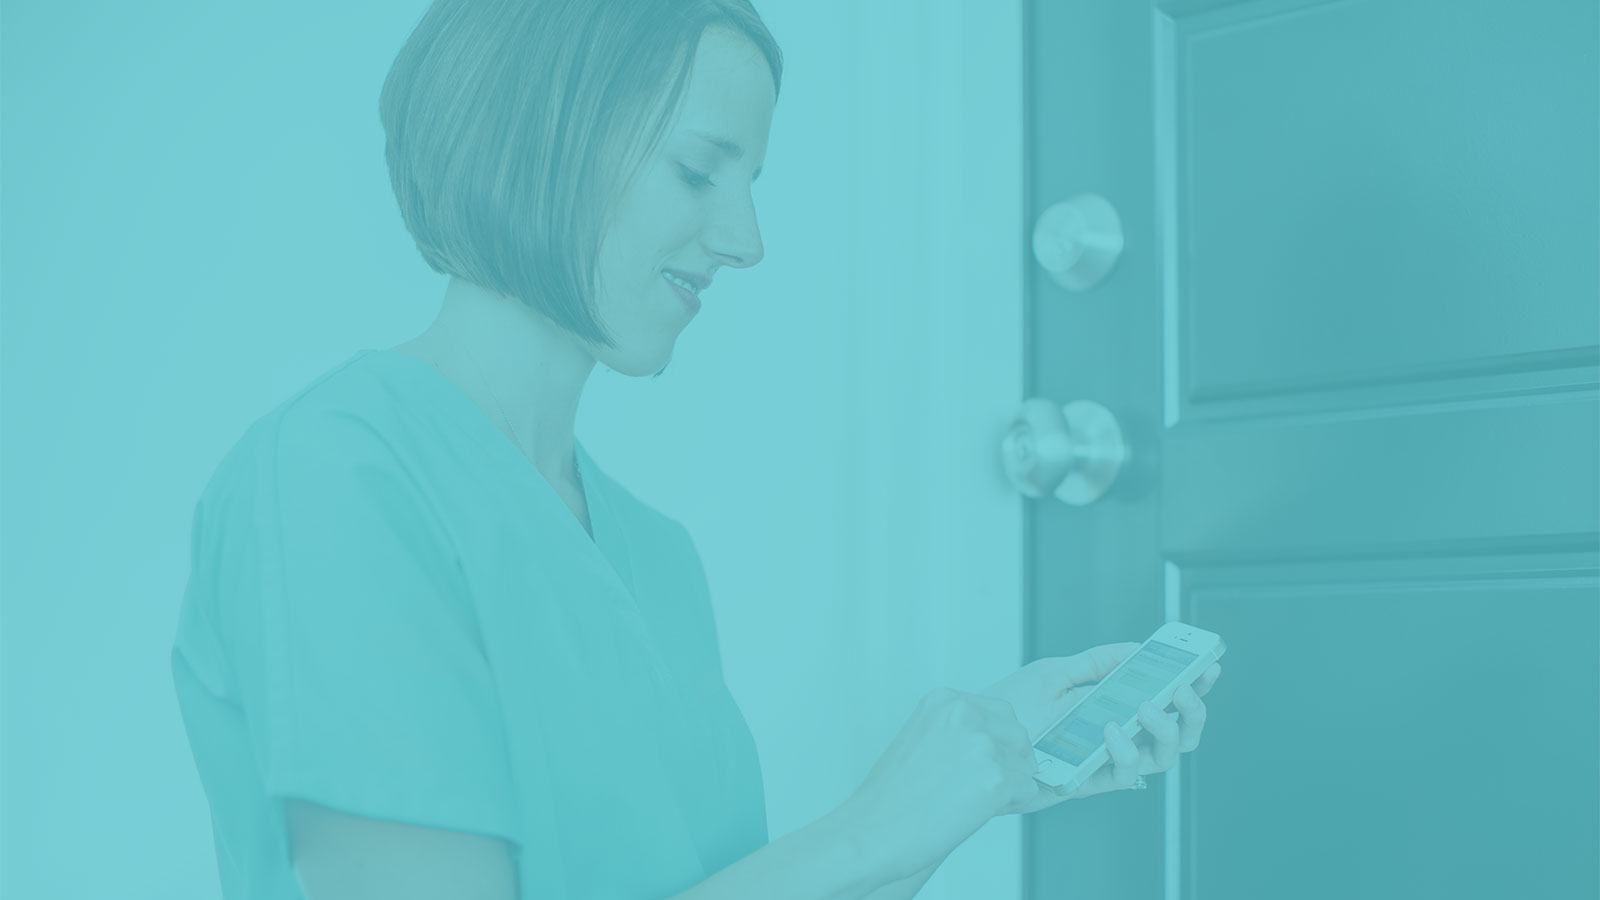
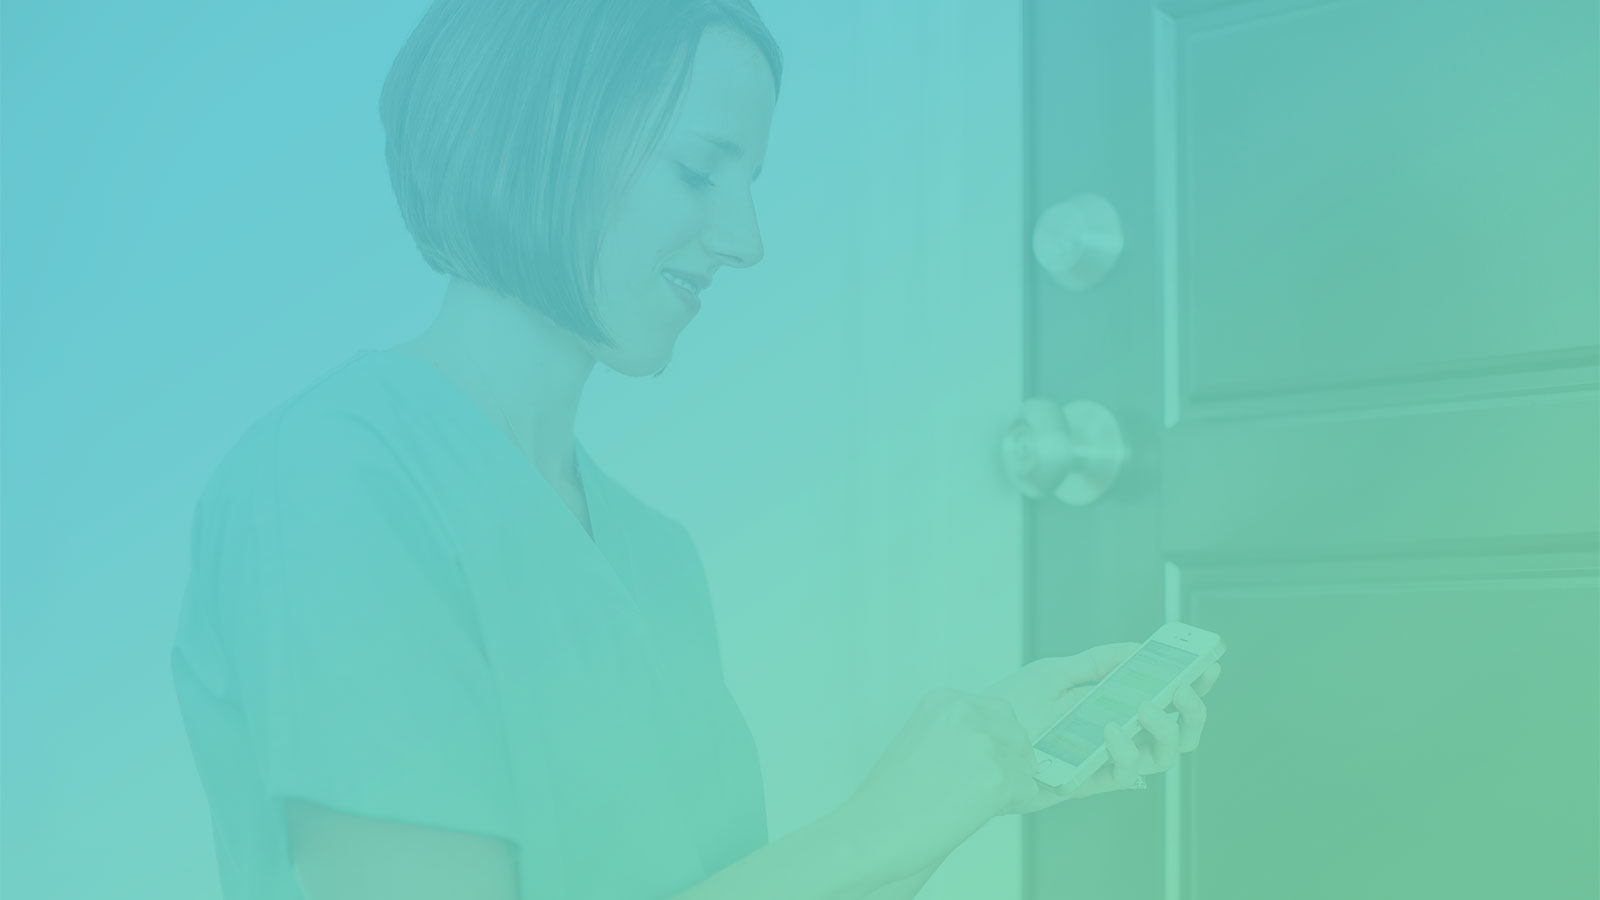
updates

diff --git a/css/main.less b/css/main.less
@@ -45,15 +45,19 @@ a {
 	position: fixed;
 	width: 100%;
 	min-height: 400px;
-	max-height: 700px;
+	height: percentage(9/16);
 	top: 0;
 	left: 0;
 	z-index: 1;
-	background: @brand;
+	background: url(../img/1.jpg) no-repeat center center; 
+	-webkit-background-size: cover;
+	-moz-background-size: cover;
+	-o-background-size: cover;
+	background-size: cover;
 	overflow: hidden;
 //	display: none;
 	img {
-		display: block;
+		display: none;
 		width: 100%;
 		height: 100%;
 	}
@@ -67,21 +71,22 @@ a {
 
 .home-intro {
 	text-align: center;
-	padding: 76px 0;
+	padding: 60px 0;
 	h1 {
-		font-size: 36px;
+		font-size: 28px;
 		line-height: 1.2em;
 		padding: 0 0 36px;
-		color: darken(@brand,50%);
+		color: @white;
+		text-shadow: 0 0 36px fadeout(darken(@brand,50%),75%);
+		text-shadow: 2px 2px 0 fadeout(darken(@brand,50%),99%);
 	}
 	.btn {
 		background: @yellow;
-
 		line-height: 1.2em;
 		padding: 18px 36px;
 		border-radius: 6px;
 		display: inline-block;
-		font-size: 24px;
+		font-size: 19px;
 		font-weight: 500;
 		color: darken(@yellow,55%);
 		text-shadow: 0 0 16px lighten(@yellow,11%);
